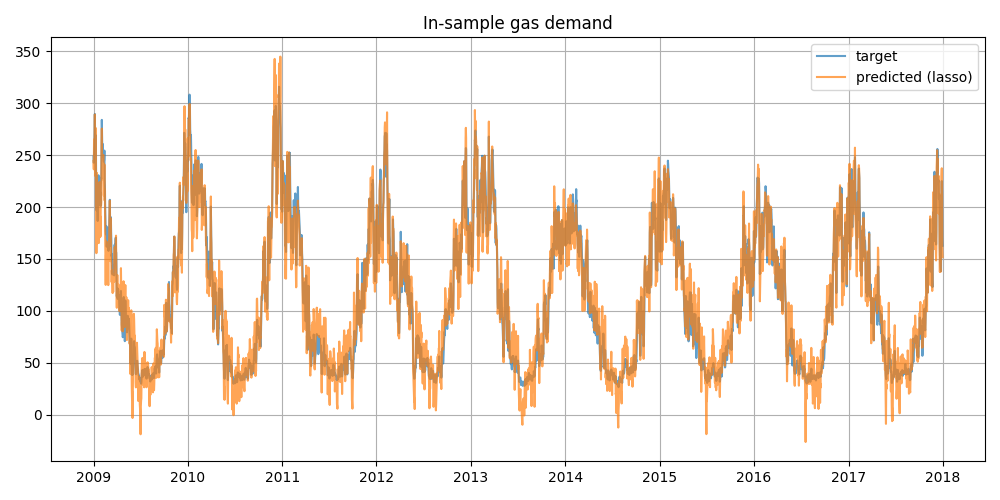
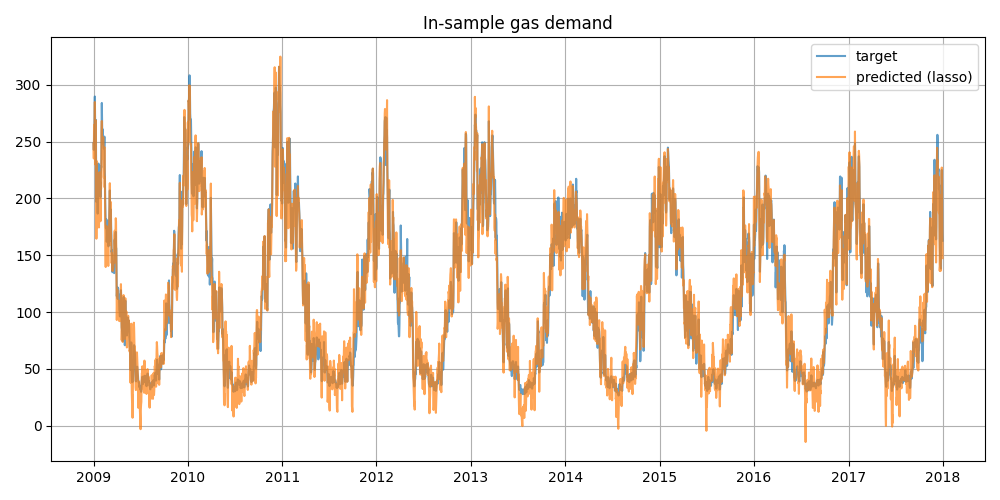
linear: verify oos prediction

diff --git a/data_exploration.py b/data_exploration.py
@@ -163,7 +163,7 @@ grid_search_analysis = GridSearchCV(
     verbose=0
 )
 
-grid_search_analysis.fit(X_standardized, y)
+grid_search_analysis.fit(X_standardized, y.copy())
 
 # Get the best model and coefficients
 best_lasso = grid_search_analysis.best_estimator_
@@ -262,8 +262,8 @@ test_start, test_end = test[DATE_COL].agg(['min', 'max'])
 
 print(f"\nOut-of-sample data from {test_start} to {test_end}")
 print("Which is exactly two years.")
-# dates_test = [dt.date.fromisoformat(d) for d in test[DATE_COL].to_numpy()]
-dates_test = [d for d in test[DATE_COL].to_numpy()]
+dates_test = [dt.date.fromisoformat(d) for d in test[DATE_COL].to_numpy()]
+
 
 # %%
 test = pl.from_dataframe(test).with_columns(
@@ -306,4 +306,3 @@ ax.set_title("Linear regression OOS prediction after training data")
 fig.tight_layout()
 
 fig.savefig(IMG_FOLDER / 'lin_oos.png')
-

diff --git a/README.md b/README.md
@@ -69,6 +69,7 @@ where the choice of kernel is paramount to learning the periodicity correctly.
 - 5-fold cross-validation applied to tune regularisation parameter.
 - Feature engineer : 
     - log kelvin temperature (15 % improvement in-sample RMSE)
+    - seasonal (quarterly) level (15% extra improvement in-sample RMSE) 
 
 *In-sample prediction :*
 
@@ -81,10 +82,10 @@ where the choice of kernel is paramount to learning the periodicity correctly.
 > [!WARNING]
 > The predicted demand is negative on many occurences.
 
-The linear regression, while regularised, seems to have too much variance
-and is sensitive to outliers.
+The linear regression, while regularised, seems to have 
+**too much variance and is sensitive to outliers**.
 
-The in sample RMSE is approximately 14.
+The in-sample RMSE is approximately 12.
 
 A feature importance analysis after standardising the input data shows 
 temperature data is by far the most correlated to the domestic gas demand :
@@ -92,13 +93,11 @@ temperature data is by far the most correlated to the domestic gas demand :
 ![image](img/lin_feature_importance.png)
 
 where the absolute coefficient values have been averaged by category 
-(including log temperature, day and night mixed).
+(including log temperature, day and night not distinguished).
 
 ### Gradient Boost Regressor prediction
 
-- Non-linear feature engineering
 - Feature importance analysis
-
 
 <img src="img/gb_in_sample.png" width="400px" />
 
